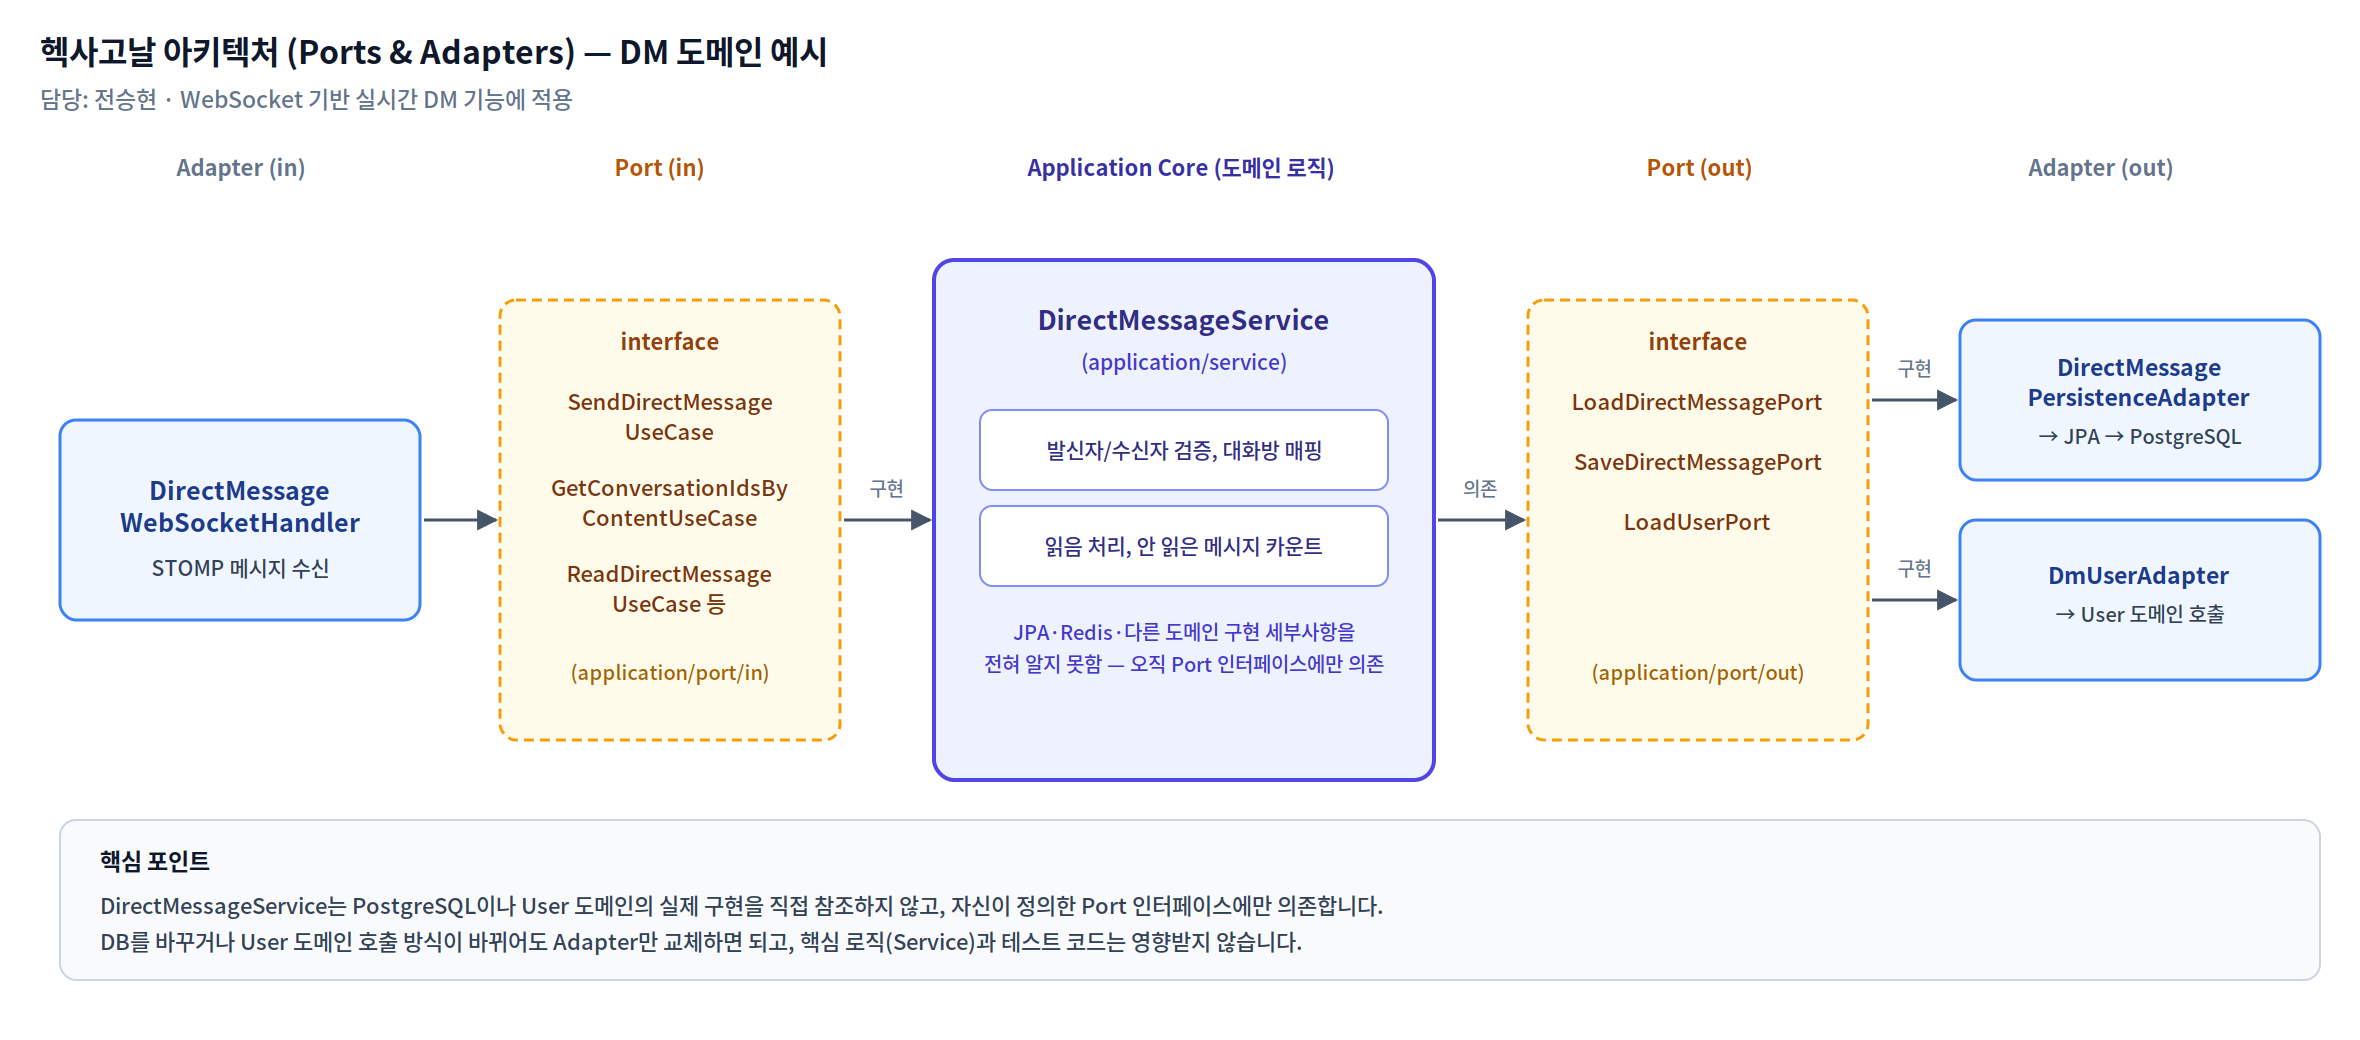
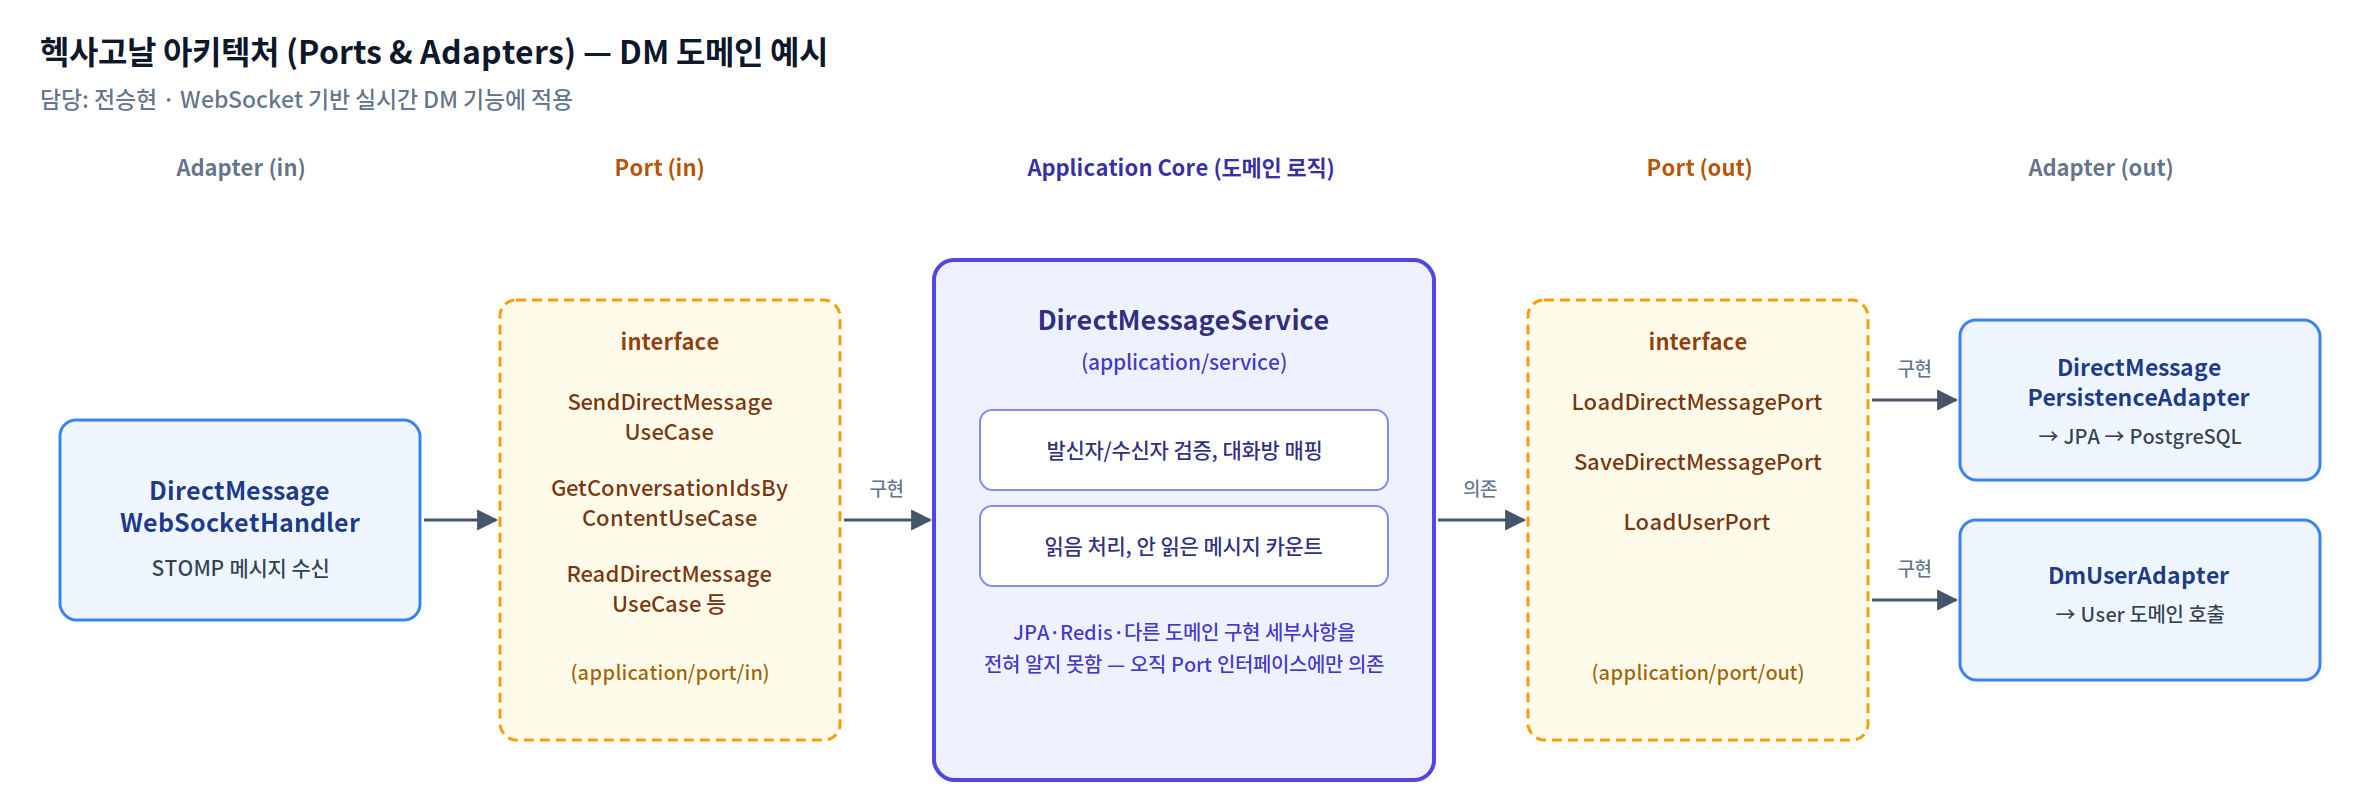
docs: README 개편 - 아키텍처/기능 순서 조정, 트러블슈팅 정리, 다이어그램 정리

diff --git a/README.md b/README.md
@@ -8,13 +8,29 @@
 
 ## Table of Contents
 
-1. [Core Features](#core-features)
-2. [Architecture](#architecture)
+1. [Architecture](#architecture)
+2. [Core Features](#core-features)
 3. [Trouble Shooting](#trouble-shooting)
 4. [File Structure](#file-structure)
 5. [Technology Stack](#technology-stack)
-6. [Getting Started](#getting-started)
-7. [API Documentation](#api-documentation)
+
+---
+
+## Architecture
+
+### 인프라 아키텍처 (운영 환경)
+
+![인프라 아키텍처](docs/images/infra-architecture.png)
+
+원래 팀 프로젝트 요구사항은 ECS + nginx + 다중 인스턴스 구성이었습니다. 미션 완료 후 개인적으로 운영 비용과 트래픽 규모를 다시 검토했고, 현재 트래픽 규모를 고려했을 때 ECS의 오토스케일링·다중 인스턴스 구성은 과설계라고 판단해 EC2 단일 인스턴스로 재구성했습니다. Nginx도 제거하고 AWS CloudFront가 리버스 프록시 겸 SSL 종료 역할을 대신하도록 정리했습니다. DB(RDS)·Redis(ElastiCache)·OpenSearch는 애플리케이션과 분리된 AWS 관리형 서비스로 유지해, EC2 인스턴스 자체는 API 서버와 Kafka 컨테이너만 담당합니다. Kafka는 처음엔 Confluent Cloud 같은 완전관리형 서비스도 사용해봤는데, 무료 사용 기간이 끝나면 비용이 발생하고 리소스 사용량도 무거워서 EC2에 컨테이너로 직접 올리는 self-hosted 방식으로 바꿨습니다.
+
+### 헥사고날 아키텍처 (Ports & Adapters)
+
+![헥사고날 아키텍처](docs/images/hexagonal-architecture.png)
+
+도메인별로 Port(인터페이스)와 Adapter(구현체)를 분리해서, 애플리케이션 핵심 로직이 JPA나 다른 도메인의 구현 세부사항을 직접 알지 못하도록 설계했습니다. 위 다이어그램은 제가 담당한 DM 도메인을 예로 든 것으로, WebSocket으로 들어온 요청이 UseCase 인터페이스 → Service(핵심 로직) → Port 인터페이스를 거쳐 실제 Persistence/User 어댑터에 도달하는 흐름을 보여줍니다.
+
+이렇게 분리해서 실제로 얻은 이득은, 단위 테스트에서 실제 DB나 Spring 컨텍스트 없이 `LoadDirectMessagePort`·`SaveDirectMessagePort`·`LoadUserPort`를 Mockito로 mock 처리해서 `DirectMessageService`를 검증할 수 있다는 점입니다(`DirectMessageServiceTest`). User 도메인도 `LoadUserPort`를 통해서만 접근하기 때문에, User 쪽 구현이 바뀌거나 DB를 바꿔도 Adapter만 교체하면 되고 핵심 로직(Service)과 테스트 코드는 영향받지 않습니다.
 
 ---
 
@@ -40,22 +56,6 @@
 
 ---
 
-## Architecture
-
-### 인프라 아키텍처 (운영 환경)
-
-![인프라 아키텍처](docs/images/infra-architecture.png)
-
-원래 팀 프로젝트 요구사항은 ECS + nginx + 다중 인스턴스 구성이었습니다. 미션 완료 후 개인적으로 트래픽 규모와 운영 비용을 다시 검토했고, 실사용자가 없는 포트폴리오 성격의 서비스에서 ECS의 오토스케일링·다중 인스턴스 구성은 과설계라고 판단해 EC2 단일 인스턴스로 재구성했습니다. Nginx도 제거하고 AWS CloudFront가 리버스 프록시 겸 SSL 종료 역할을 대신하도록 정리했습니다. DB(RDS)·Redis(ElastiCache)·OpenSearch는 애플리케이션과 분리된 AWS 관리형 서비스로 유지해, EC2 인스턴스 자체는 API 서버와 Kafka 컨테이너만 담당합니다.
-
-### 헥사고날 아키텍처 (Ports & Adapters)
-
-![헥사고날 아키텍처](docs/images/hexagonal-architecture.png)
-
-도메인별로 Port(인터페이스)와 Adapter(구현체)를 분리해서, 애플리케이션 핵심 로직이 JPA나 다른 도메인의 구현 세부사항을 직접 알지 못하도록 설계했습니다. 위 다이어그램은 제가 담당한 DM 도메인을 예로 든 것으로, WebSocket으로 들어온 요청이 UseCase 인터페이스 → Service(핵심 로직) → Port 인터페이스를 거쳐 실제 Persistence/User 어댑터에 도달하는 흐름을 보여줍니다. DB를 바꾸거나 다른 도메인 호출 방식이 바뀌어도 Adapter만 교체하면 되고, 핵심 로직과 테스트 코드는 영향받지 않습니다.
-
----
-
 ## Trouble Shooting
 
 ### 1. Redis 캐시 스탬피드 — 동시 요청 시 DB 조회가 이론치보다 많이 발생
@@ -68,17 +68,17 @@ Spring Data Redis의 기본 `RedisCacheWriter`(non-locking)는 `@Cacheable(sync=
 - 분산 트래픽 기준 DB 조회: 13,667건 → 36건 (99.7%↓)
 - p95 응답시간: 247.32ms → 187.61ms (24.1%↓), 평균 81.45ms → 75.13ms (7.8%↓), RPS 273.38 → 282.57 (3.4%↑)
 
-### 2. N+1 문제 — DM/대화 목록 조회 시 발신자·수신자 조회가 목록 크기만큼 반복
-
-DM 목록과 대화(Conversation) 목록을 조회할 때, 목록을 순회하면서 각 메시지/대화마다 상대방 User 정보를 건별로 조회하고 있었습니다 (`getUserSummary()`를 메시지 개수만큼 반복 호출). 목록이 N개면 조회 쿼리가 N번 추가로 나가는 구조였습니다.
-
-id를 먼저 모아서 한 번에 조회하는 벌크 메서드(`getUserSummaries`, `getLatestBulk`, `hasUnreadBulk`)를 추가하고, 반복문 안에서는 이미 조회해 둔 Map에서 꺼내 쓰도록 바꿨습니다. 대화방별 최근 메시지 조회도 상관 서브쿼리 대신, `GROUP BY`로 대화방별 최신 시각을 먼저 한 번에 구하고 그 시각들로 실제 메시지 행을 다시 한 번에 조회하는 2단계 방식으로 처리해 N+1을 피했습니다. 건별 메서드가 다시 호출되지 않는지 확인하는 회귀 테스트도 함께 추가했습니다.
-
-### 3. STOMP 인증정보 유실 — CONNECT는 성공하지만 SUBSCRIBE/SEND에서 인증 정보가 사라짐
+### 2. STOMP 인증정보 유실 — CONNECT는 성공하지만 SUBSCRIBE/SEND에서 인증 정보가 사라짐
 
 WebSocket CONNECT 시점에는 `StompAuthInterceptor`에서 JWT를 검증하고 인증 정보를 설정했는데, 이후 SUBSCRIBE/SEND 프레임에서는 인증된 사용자 정보가 비어 있는 문제가 있었습니다. STOMP 메시지 객체가 불변(immutable)이라 `accessor.setUser()`로 설정한 값이 이후 프레임까지 반영되지 않는 것이 원인이었고, 세션 단위로 유지되는 `sessionAttributes`에 사용자 정보를 저장해두고 이후 프레임에서 꺼내 쓰는 방식으로 우회했습니다.
 
 로그아웃/탈퇴한 사용자의 토큰을 즉시 무효화하기 위한 Redis 기반 블랙리스트(`RedisAuthTokenService`, 키 패턴 `auth:blacklist:{jti}`)도 함께 구성했습니다. 인메모리가 아닌 Redis에 저장하도록 설계한 건 다중 인스턴스로 확장할 경우 블랙리스트를 인스턴스끼리 공유하기 위해서였는데, 현재는 EC2 단일 인스턴스로 운영 중이라 그 이점을 실제로 활용하고 있진 않습니다. 블랙리스트 조회(Redis) 자체가 실패하는 경우에는 인증을 막지 않고 통과시키도록 처리했는데, 이는 보안보다 가용성을 우선한 선택으로 트레이드오프가 있는 부분입니다.
+
+### 3. N+1 문제 — DM/대화 목록 조회 시 발신자·수신자 조회가 목록 크기만큼 반복
+
+DM 목록과 대화(Conversation) 목록을 조회할 때, 목록을 순회하면서 각 메시지/대화마다 상대방 User 정보를 건별로 조회하고 있었습니다 (`getUserSummary()`를 메시지 개수만큼 반복 호출). 목록이 N개면 조회 쿼리가 N번 추가로 나가는 구조였습니다.
+
+id를 먼저 모아서 한 번에 조회하는 벌크 메서드(`getUserSummaries`, `getLatestBulk`, `hasUnreadBulk`)를 추가하고, 반복문 안에서는 이미 조회해 둔 Map에서 꺼내 쓰도록 바꿨습니다. 대화방별 최근 메시지 조회도 상관 서브쿼리 대신, `GROUP BY`로 대화방별 최신 시각을 먼저 한 번에 구하고 그 시각들로 실제 메시지 행을 다시 한 번에 조회하는 2단계 방식으로 처리해 N+1을 피했습니다. 건별 메서드가 다시 호출되지 않는지 확인하는 회귀 테스트도 함께 추가했습니다.
 
 ---
 
@@ -132,111 +132,6 @@ src/main/java/com/mopl
 **Test**: JUnit5, Spring Security Test, Spring Batch Test, Testcontainers, Awaitility, H2, JaCoCo
 
 **Build / Infra**: Gradle, Docker, Docker Compose
-
----
-
-## Getting Started
-
-### 요구 사항
-
-- JDK 17
-- Docker / Docker Compose
-
-### 환경 변수 설정
-
-`.env.dev` 파일을 참고하여 프로젝트 루트에 필요한 환경 변수 파일(`.env` 또는 `.env.dev`)을 구성합니다.
-
-```
-SPRING_PROFILES_ACTIVE=
-SERVER_PORT=
-FRONTEND_BASE_URL=
-
-# DB
-DB_HOST=
-DB_PORT=
-DB_NAME=
-DB_USERNAME=
-DB_PASSWORD=
-
-# Redis
-REDIS_HOST=
-REDIS_PORT=
-
-# Kafka
-KAFKA_BOOTSTRAP_SERVERS=
-KAFKA_API_KEY=
-KAFKA_API_SECRET=
-
-# OpenSearch
-OPENSEARCH_URI=
-OPENSEARCH_INITIAL_ADMIN_PASSWORD=
-
-# JWT
-JWT_SECRET=
-JWT_ACCESS_TOKEN_EXPIRY_MS=
-JWT_REFRESH_TOKEN_EXPIRY_MS=
-
-# Mail
-MAIL_USERNAME=
-MAIL_PASSWORD=
-
-# TMDB
-TMDB_API_KEY=
-TMDB_ACCESS_TOKEN=
-
-# AWS S3
-CLOUD_AWS_REGION_STATIC=
-CLOUD_AWS_CREDENTIALS_ACCESS_KEY=
-CLOUD_AWS_CREDENTIALS_SECRET_KEY=
-
-# OAuth2
-KAKAO_CLIENT_ID=
-KAKAO_CLIENT_SECRET=
-GOOGLE_CLIENT_ID=
-GOOGLE_CLIENT_SECRET=
-```
-
-### 로컬 실행 (Docker Compose)
-
-```bash
-docker compose up -d --build
-```
-
-API 서버(8080), PostgreSQL(5432), Redis(6379), Kafka(9092), OpenSearch(9200)가 함께 기동됩니다.
-
-### 로컬 실행 (Gradle)
-
-인프라(DB, Redis, Kafka, OpenSearch 등)만 별도로 띄운 뒤 애플리케이션을 직접 실행할 수 있습니다.
-
-```bash
-./gradlew bootRun
-```
-
-기본 프로파일은 `dev`이며, `local`/`test`/`prod` 프로파일은 `src/main/resources/application-{profile}.yml`에서 확인할 수 있습니다.
-
-### 빌드
-
-```bash
-./gradlew build
-```
-
-### 테스트
-
-```bash
-./gradlew test
-```
-
-테스트 실행 후 JaCoCo 커버리지 리포트가 `build/reports/jacoco/test/html/index.html`에 생성됩니다.
-
----
-
-## API Documentation
-
-애플리케이션 실행 후 Swagger UI에서 API 명세를 확인할 수 있습니다.
-
-```
-http://localhost:8080/swagger-ui/index.html
-```
 
 ---
 
